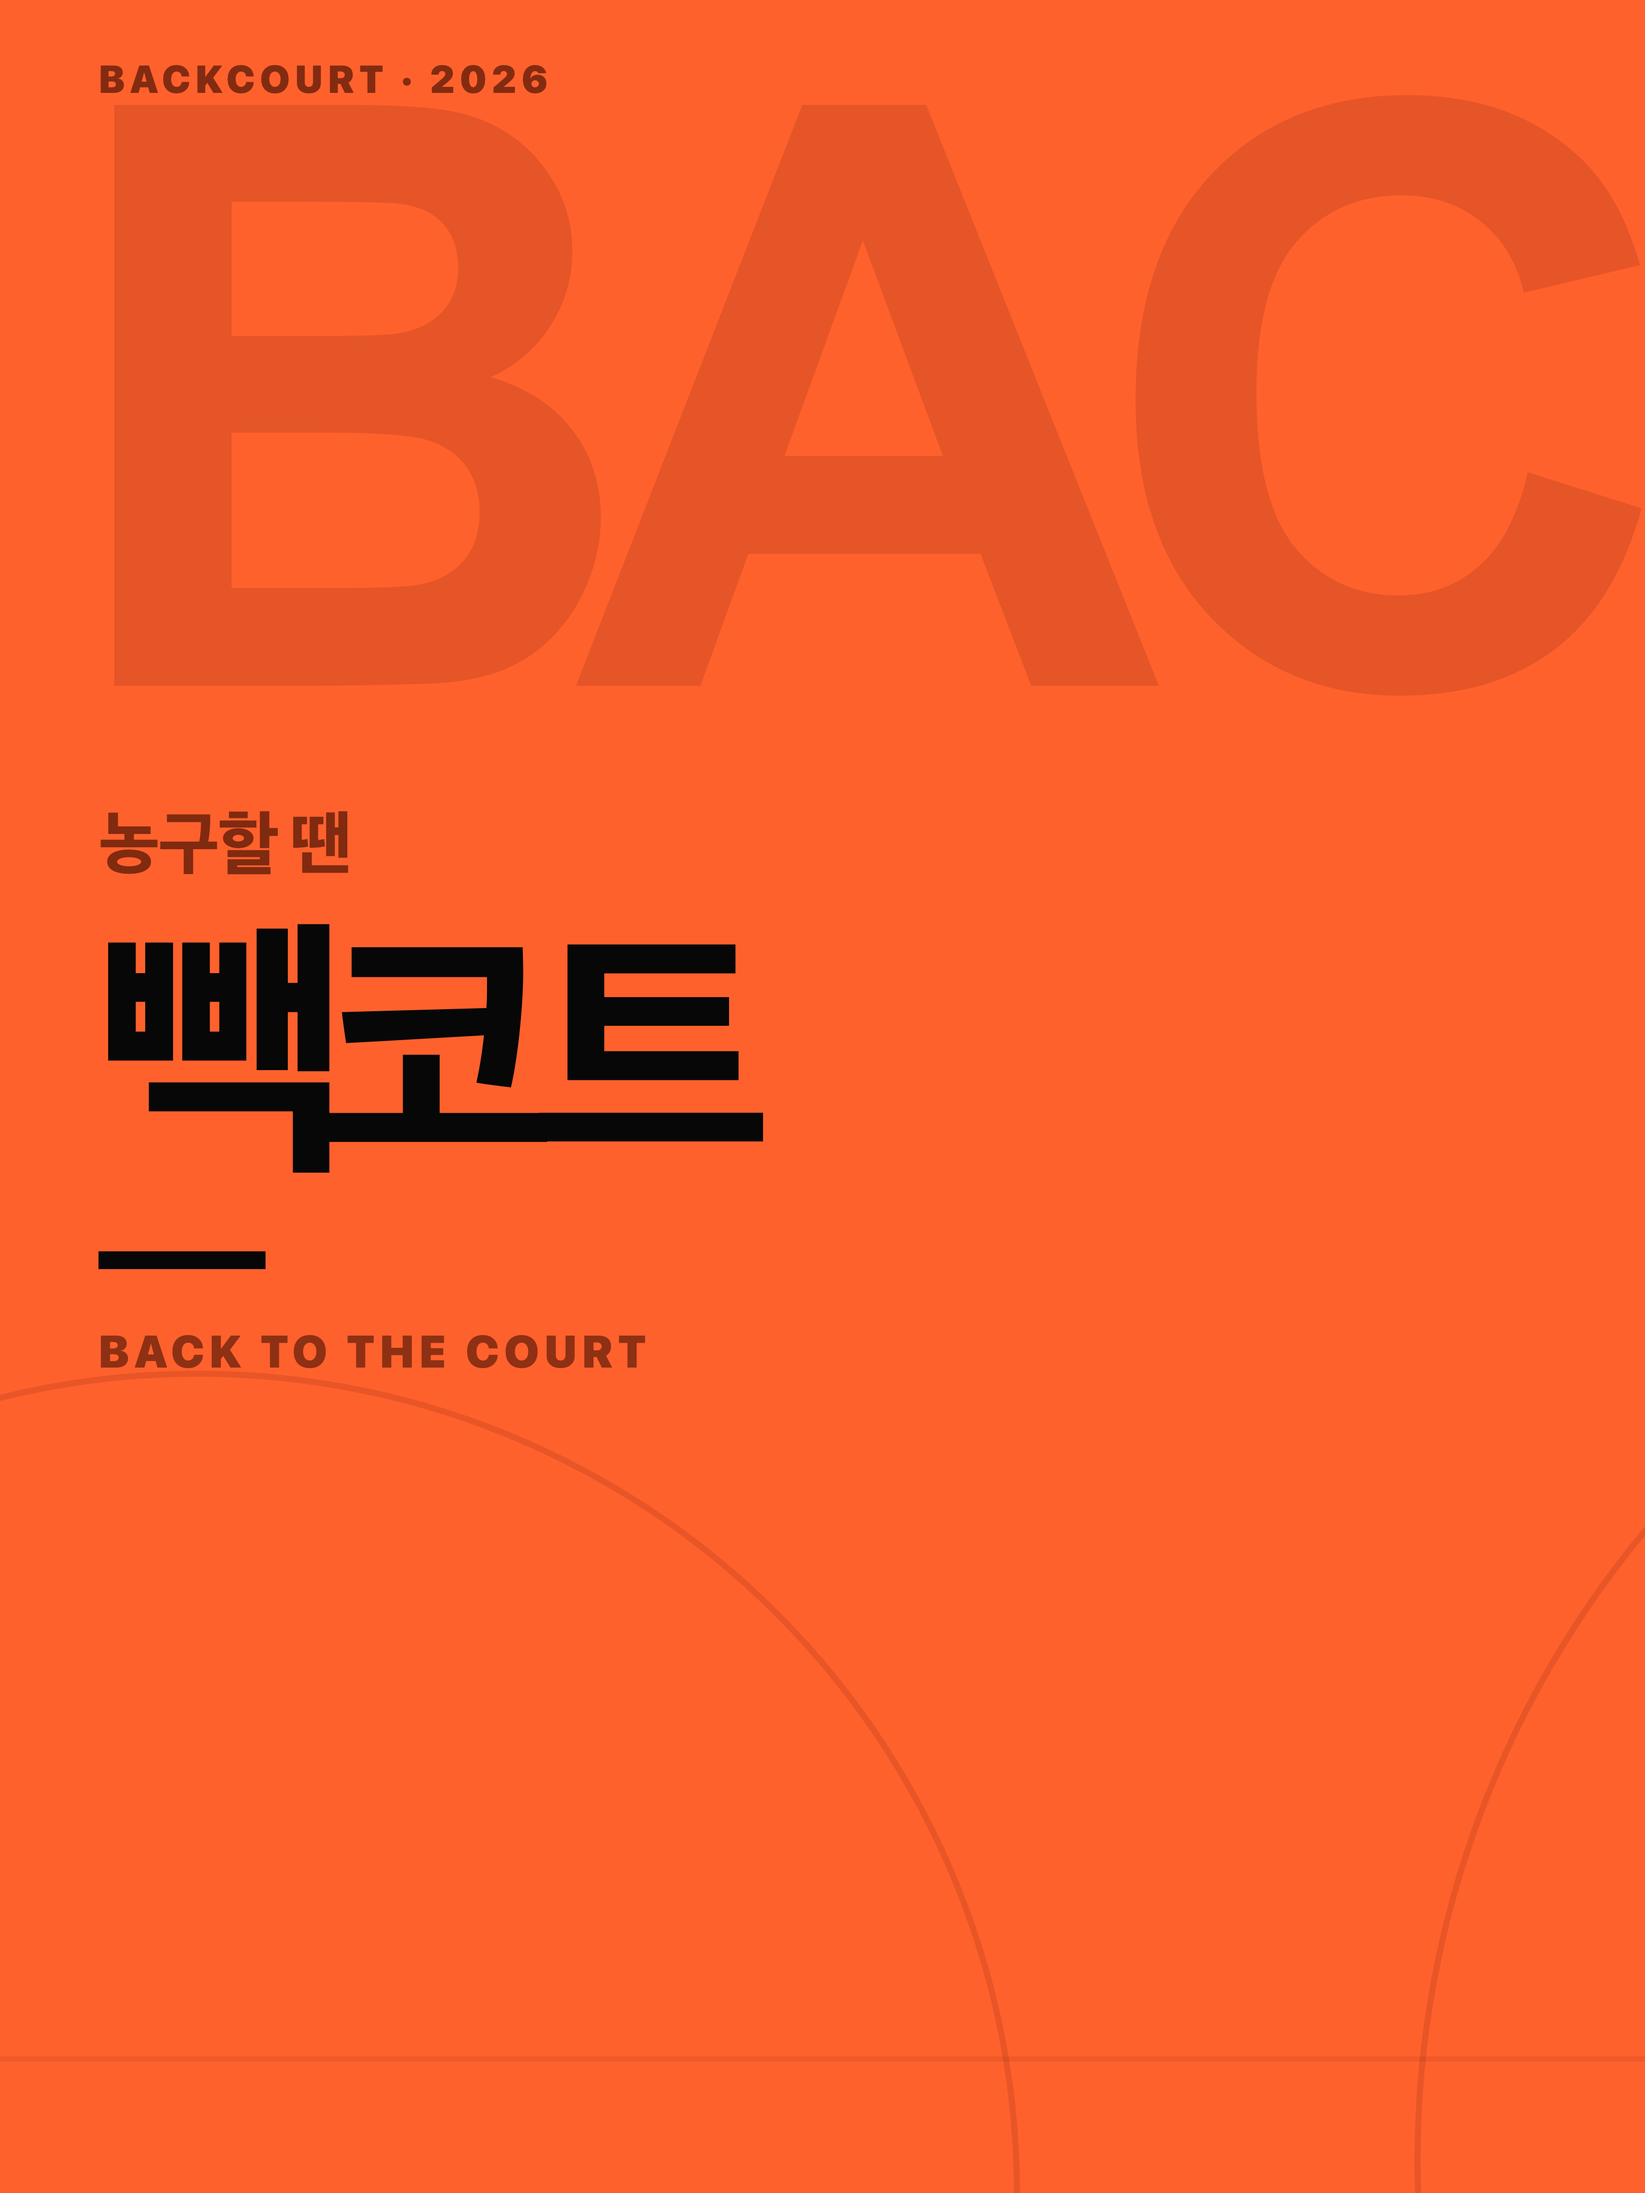
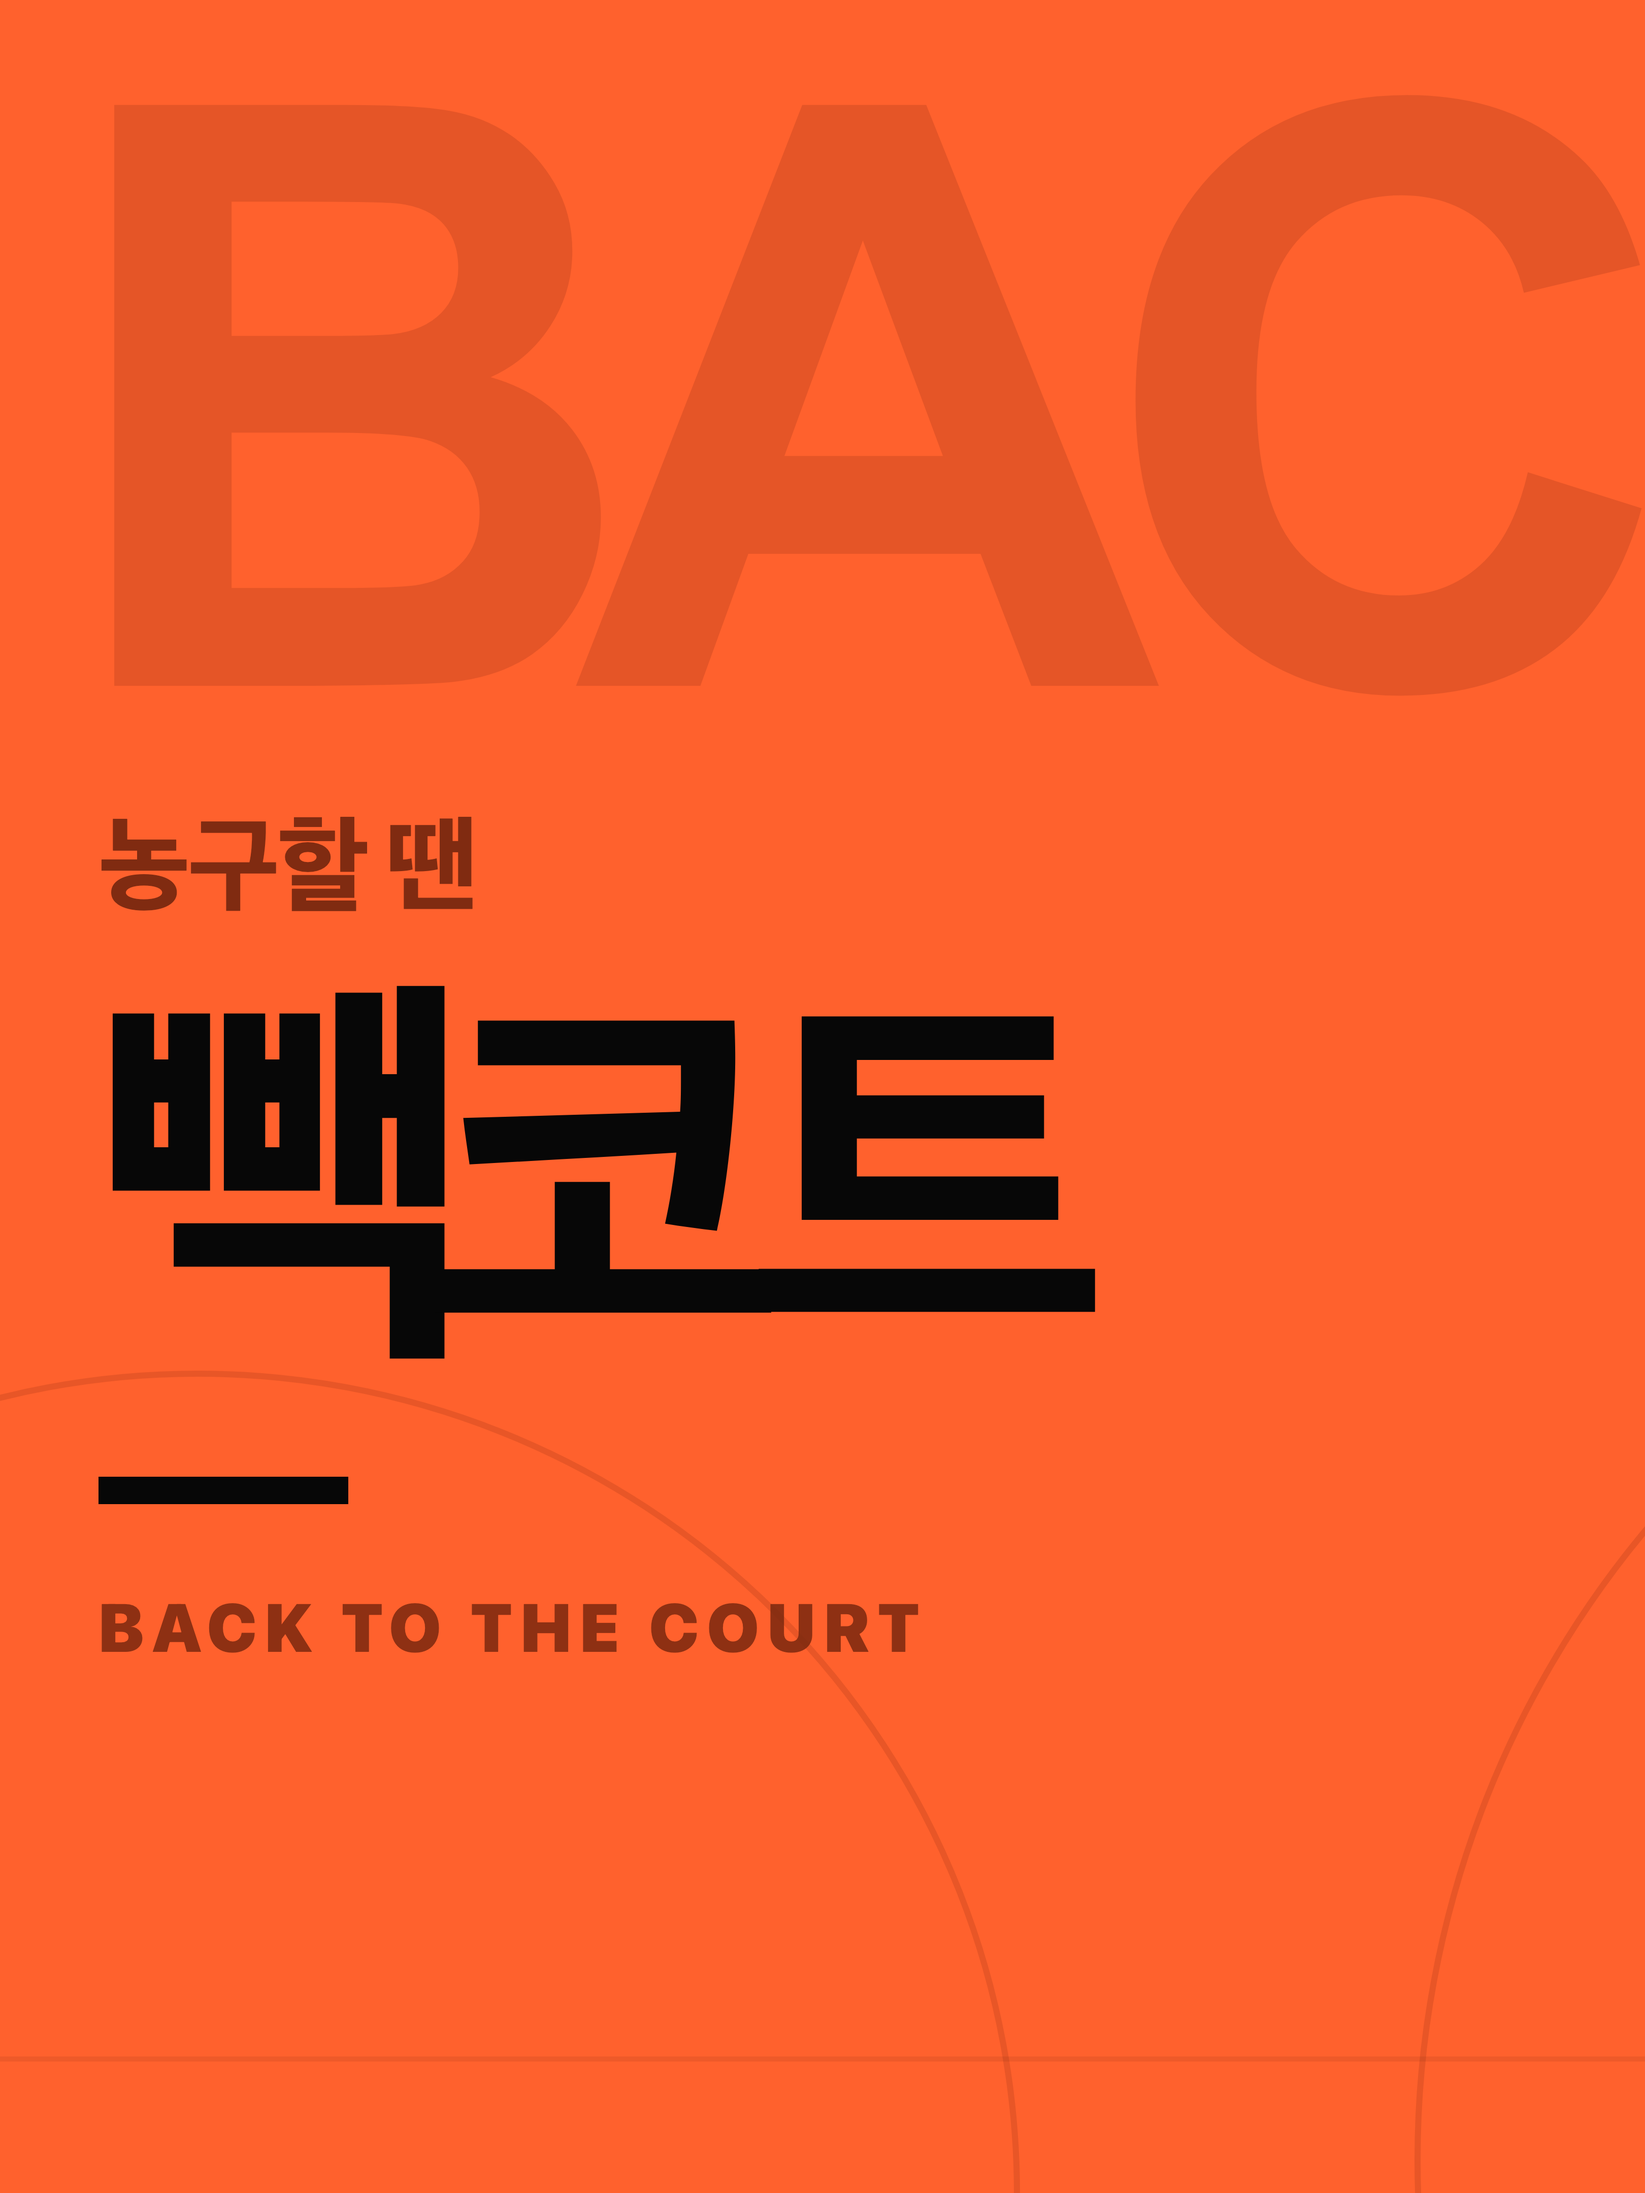
Refine triptych typography layout

diff --git a/Backcourt-Social/triptych.css b/Backcourt-Social/triptych.css
@@ -15,16 +15,15 @@ a { color: inherit; text-decoration: none; }
 .meta span { color:#8c8c8c; }
 .triptych-shell { width:100%; aspect-ratio:9/4; overflow:hidden; container-type:size; background:var(--orange); border:1px solid #292929; box-shadow:0 20px 50px rgba(0,0,0,.28); }
 .triptych { position:relative; width:100%; height:100%; overflow:hidden; color:var(--ink); background:var(--orange); letter-spacing:-.045em; }
-.mega-type { position:absolute; z-index:0; top:1.8cqh; left:2.5cqh; display:flex; align-items:flex-start; gap:1.2cqh; color:rgba(117,38,14,.19); font-family:Arial,"Apple SD Gothic Neo",sans-serif; font-size:37cqh; line-height:.9; font-weight:950; letter-spacing:-.08em; white-space:nowrap; }
+.mega-type { position:absolute; z-index:0; top:1.8cqh; left:2.5cqh; right:1.2cqh; display:flex; align-items:flex-start; justify-content:space-between; gap:1.2cqh; color:rgba(117,38,14,.19); font-family:Arial,"Apple SD Gothic Neo",sans-serif; font-size:37cqh; line-height:.9; font-weight:950; letter-spacing:-.08em; white-space:nowrap; }
 .platform { position:absolute; z-index:3; top:2.55cqh; right:5.25cqh; font-size:1.9cqh; font-weight:950; letter-spacing:.16em; }
-.edition { position:absolute; z-index:3; left:4.5cqh; top:2.55cqh; color:rgba(117,38,14,.9); font-size:1.75cqh; font-weight:950; letter-spacing:.13em; }
-.left-copy { position:absolute; z-index:3; left:4.5cqh; top:36.5cqh; }
+.left-copy { position:absolute; z-index:3; left:4.5cqh; top:36.5cqh; transform:scale(1.5); transform-origin:top left; }
 .left-copy p { margin:0 0 1.2cqh; color:rgba(117,38,14,.92); font-size:3.2cqh; font-weight:900; }
 .left-copy h2 { margin:0; font-size:12.7cqh; line-height:.93; font-weight:950; letter-spacing:-.09em; }
 .left-copy i { width:7.6cqh; height:.82cqh; margin:3.5cqh 0 2.5cqh; display:block; background:var(--ink); }
 .left-copy span { color:rgba(117,38,14,.82); font-size:2.05cqh; font-weight:950; letter-spacing:.11em; }
 .hero-icon { position:absolute; z-index:3; left:84.5cqh; top:24cqh; width:56cqh; height:56cqh; object-fit:contain; transform:rotate(-3deg); filter:drop-shadow(2cqh 2.2cqh 0 rgba(117,38,14,.2)); }
-.right-copy { position:absolute; z-index:3; left:158.25cqh; top:34.5cqh; }
+.right-copy { position:absolute; z-index:3; left:158.25cqh; top:34.5cqh; transform:scale(1.5); transform-origin:top left; }
 .right-copy > p { margin:0 0 1.25cqh; color:rgba(117,38,14,.92); font-size:3.2cqh; font-weight:900; }
 .right-copy > h2 { margin:0; font-size:11.25cqh; line-height:.84; font-weight:950; letter-spacing:-.09em; }
 .launch { width:36cqh; height:9cqh; margin-top:4.3cqh; padding:0 2.3cqh; display:flex; align-items:center; gap:1.75cqh; background:var(--paper); box-shadow:1.1cqh 1.2cqh 0 rgba(117,38,14,.18); }

diff --git a/Backcourt-Social/triptych.html b/Backcourt-Social/triptych.html
@@ -19,8 +19,6 @@
         <section class="triptych" aria-label="빽코트 인스타그램 연결 포스터">
           <div class="mega-type" aria-hidden="true"><span>BACK</span><span>COURT</span></div>
           <div class="platform">IOS / ANDROID</div>
-          <div class="edition">BACKCOURT · 2026</div>
-
           <div class="left-copy">
             <p>농구할 땐</p>
             <h2>빽코트</h2>
